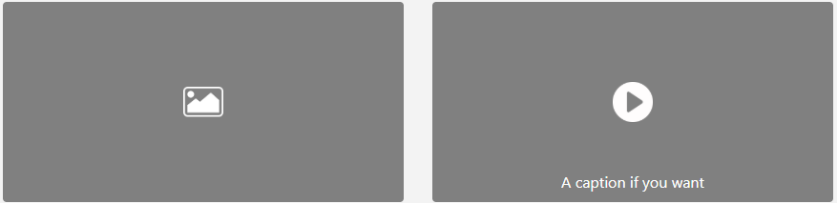
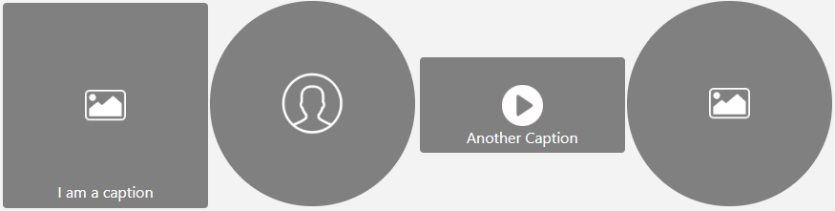
added props to media-placeholder, updated readme

diff --git a/src/App.js b/src/App.js
@@ -16,10 +16,10 @@ import TextPlaceholder from './components/TextPlaceholder';
 function App() {
   return (
     <div className="App">
-       <WireNavBar >
+       <WireNavBar  >
          <Container>
           <WireNavbarLogo companyName="Logo Name"/>  
-            <NavItemsContainer right >
+            <NavItemsContainer >
               <WireNavbarLink linkTag="About"/>
               <WireNavbarLink linkTag="Services" />
               <WireNavbarLink linkTag="Contact" />
@@ -46,57 +46,28 @@ function App() {
       </WireRow>
     </Container>
 
-    <Container>
-      <WireRow>
-        <WireCol >
-        <TextPlaceholder headerLines={4} paraLines={2}/>
-        </WireCol>  
-        <WireCol >
-        <TextPlaceholder headerLines={2} paraLines={4}/>
-        </WireCol>  
-      </WireRow>
-    </Container>
-
-    <MediaPlaceholder video caption="A caption if you want"/>
-    <Container>
-      <WireRow>
-        <WireCol width="70%">
-        <MediaPlaceholder  caption="A cap"/>
-        </WireCol>
 
 
-          <WireCol width="25%">
-          <TextPlaceholder headerLines={1} paraLines={8}/>
-          </WireCol>
-      </WireRow>
-    </Container>
 
-    <Container>
-      <WireRow>
-        <WireCol >
-        <TextPlaceholder  paraLines={10}/>
-        </WireCol>  
-        <WireCol >
-        <TextPlaceholder headerLines={1} paraLines={7}/>
-        </WireCol>  
-        <WireCol >
-        <TextPlaceholder headerLines={3} paraLines={4}/>
-        </WireCol>  
-      </WireRow>
-    </Container>
     <div style={{height: "50px"}}></div>
-  
-    <Container >
-    <WireRow>
-    <WireCol >
-    <MediaPlaceholder video caption="A caption if you want"/>
-        </WireCol>  
-        <WireCol >
-          <TextPlaceholder headerLines={1} paraLines={4}/>
-          <Button primary btnName="Contact"/>
-        </WireCol>  
-        </WireRow>
-        <TextPlaceholder headerLines={1} paraLines={4}/>
+
+    <Container>
+      <WireRow>
+      <WireCol>
+       <MediaPlaceholder image caption="I am a caption" />
+        </WireCol>
+        <WireCol>
+        <MediaPlaceholder avitar round/>
+        </WireCol>
+        <WireCol className="margin-auto"> 
+        <MediaPlaceholder  video height="100px" caption="Another Caption" />
+        </WireCol>
+        <WireCol>
+        <MediaPlaceholder image round />
+        </WireCol>
+      
+      </WireRow>
+      <TextPlaceholder headerLines={3} paraLines={20}/>
     </Container>
 
 

diff --git a/src/components/MediaPlaceholder.jsx b/src/components/MediaPlaceholder.jsx
@@ -2,14 +2,37 @@ import React from 'react'
 import styled from 'styled-components'
 import Image from "../component-images/image-placeholder.png"
 import Video from "../component-images/video-placeholder.png"
+import Avitar from "../component-images/avitar-placeholder.png"
+
 
 const ImageContainer = styled.div`
-    background-image: url(${props => props.video ? Video : Image});
+    ${props => props.image && ({backgroundImage: `url(${Image})`})};
+    ${props => props.video && ({backgroundImage: `url(${Video})`})};
+    ${props => props.avitar && ({
+        backgroundImage: `url(${Avitar})`,
+        backgroundSize: '30%'   
+    })};
+    ${props => props.round && ({
+        borderRadius: `100%`,
+        paddingBottom: `100%`,
+        margin: `auto`,
+    })};
+    ${props => props.height && ({
+        height: `${props.height}`,
+        paddingBottom: '0px'   
+    })};
     `;
 
+    
 function MediaPlaceholder(props) {
     return (
-            <ImageContainer video={props.video}className="media-container">
+            <ImageContainer 
+                video={props.video} 
+                avitar={props.avitar} 
+                round={props.round} 
+                height={props.height}
+                image={props.image}
+                className={'media-container ' + props.className}>
                 <p className="image-caption">{props.caption}</p>
             </ImageContainer>
     )

diff --git a/src/App.scss b/src/App.scss
@@ -44,12 +44,12 @@ body{
 
 .media-container{
     width: 100%;
-    padding-bottom: 50%;
+    padding-bottom: 100%;
     background-color: grey;
     border-radius: 4px;
     background-repeat: no-repeat;
     background-position: center;
-    background-size: 10%;
+    background-size: 20%;
     position: relative;
     margin: 0.09rem;
 
@@ -103,4 +103,8 @@ body{
 
 .mt5{
     margin-top: 5rem;
+}
+
+.margin-auto{
+    margin: auto;
 }

diff --git a/src/components/WireCol.jsx b/src/components/WireCol.jsx
@@ -9,7 +9,10 @@ function WireCol(props) {
     console.log(props);
     
     return (
-        <StyledCol width={props.width} className="wire-col">
+        <StyledCol 
+            width={props.width} 
+            className={'wire-col ' + props.className}
+        >
             {props.children}
         </StyledCol>
  

diff --git a/README.md b/README.md
@@ -49,6 +49,35 @@ Create wire frames in record time with reusable components library
         dark: false  
     }
 
+## Media Placeholders
+
+![Image of media placeholder](https://github.com/timwf/react-wireframe/blob/master/src/demo-images/media-placeholder.png)
+
+    <Container>
+      <WireRow>
+        <WireCol>
+          <MediaPlaceholder image caption="I am a caption" />
+        </WireCol>
+        <WireCol>
+          <MediaPlaceholder avitar round/>
+        </WireCol>
+        <WireCol className="margin-auto"> 
+          <MediaPlaceholder  video height="100px" caption="Another Caption" />
+        </WireCol>
+        <WireCol>
+          <MediaPlaceholder image round />
+        </WireCol>      
+      </WireRow>
+    </Container>
+
+Props Name | Type | Default Value | Description
+--- | --- | --- | ---
+video | boolean | false | Sets placeholder background image to video icon
+avitar | boolean | false | Sets placeholder background image to avitar icon
+image | boolean | false | Sets placeholder background image to Image icon
+round | boolean | false | Sets border radius to 100%
+height | string | false | Sets heigth of images * eg "height="100px" *
+
 ## Text Placeholder
 
 ![Image of media placeholder](https://github.com/timwf/react-wireframe/blob/master/src/demo-images/text-placeholder.png)
@@ -68,20 +97,8 @@ Create wire frames in record time with reusable components library
     </Container>
 
 
-## Media Placeholders
 
-![Image of media placeholder](https://github.com/timwf/react-wireframe/blob/master/src/demo-images/media-placeholder.png)
 
-    <Container>
-      <WireRow>
-        <WireCol >
-        <MediaPlaceholder />
-        </WireCol>  
-        <WireCol >
-        <MediaPlaceholder video caption="A caption if you want"/>
-        </WireCol>   
-      </WireRow>
-    </Container>
 
 
 ### Button
